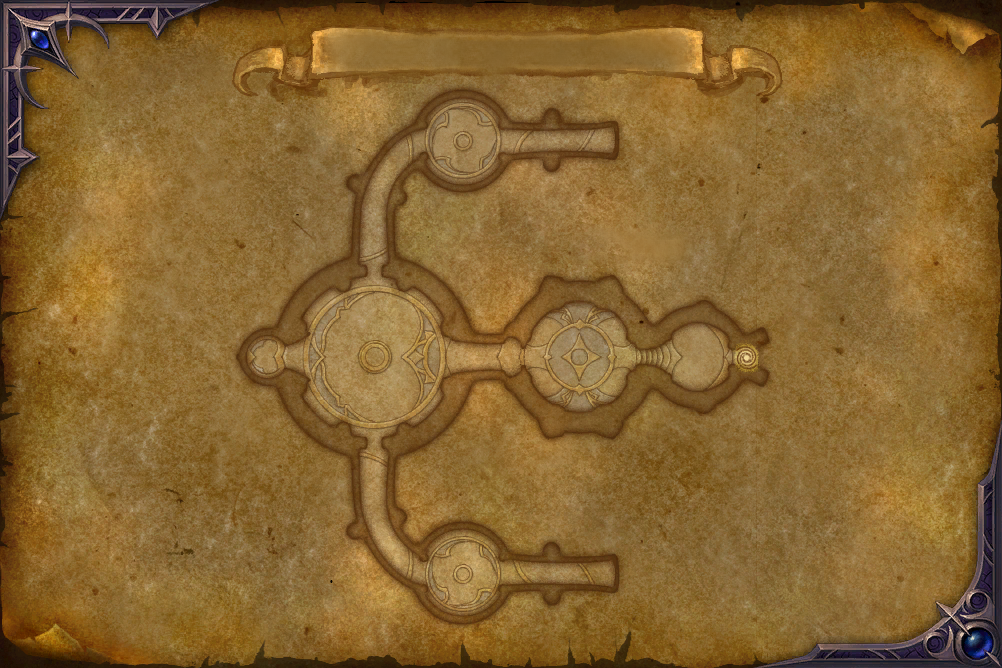
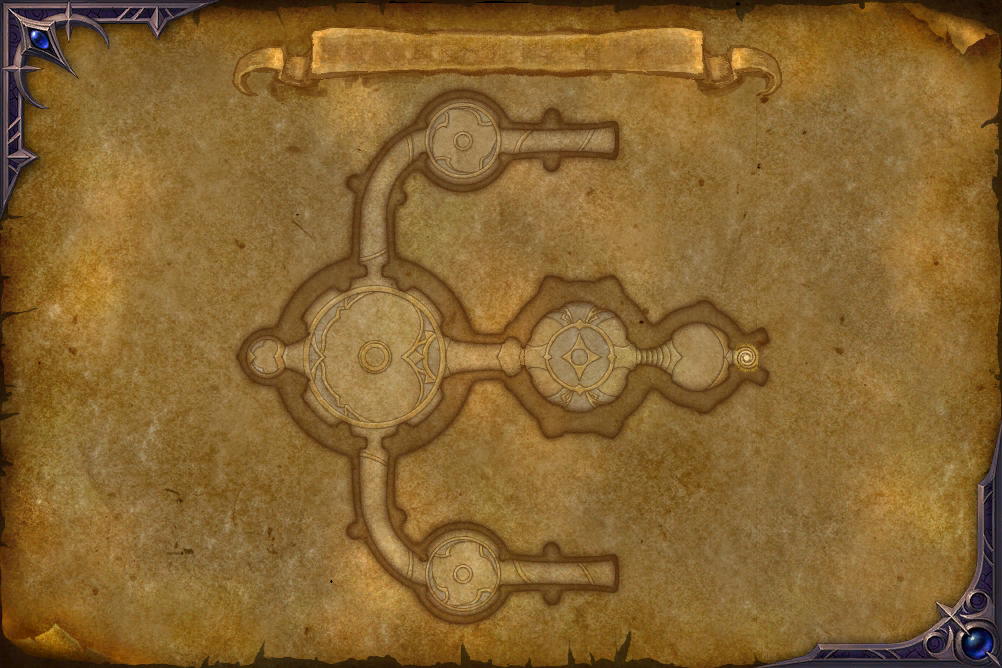
12.0.0.63967 update map

Changed region(s): [[0.3403, 0.0299, 0.6806, 0.1198]]

diff --git a/add_translation.py b/add_translation.py
@@ -2,12 +2,12 @@
 
 import json
 import os
-from PIL import Image, ImageDraw, ImageFont
+from PIL import Image, ImageDraw, ImageFont, ImageFilter
 
 FONT_PATH = "font/ARLishuU30-Medium.ttf"
 font_cache = {}
 
-def generate_text_image(text, output_path, font_size=48):
+def generate_text_image(text, output_path, font_size=48, is_title=False):
     canvas_size = (500, 100)
     image = Image.new('RGBA', canvas_size, (0, 0, 0, 0))
     draw = ImageDraw.Draw(image)
@@ -23,36 +23,77 @@ def generate_text_image(text, output_path, font_size=48):
     x = (canvas_size[0] - text_width) // 2
     y = (canvas_size[1] - text_height) // 2
 
+    padding = 20
     diff_unit = font_size / 80
-    glow_diffs = [-8, -6, -4, -2, 0, 2, 4, 6, 8]
-    text_diffs = [-1, 0, 1]
 
-    # text glow
-    offsets = []
-    for dx in glow_diffs:
-        for dy in glow_diffs:
-            if dx in text_diffs and dy in text_diffs:
-                continue
-            if dx ** 2 + dy ** 2 >= 10 ** 2:
-                continue
-            offsets.append((dx, dy))
+    if is_title:
+        shadow_color = (64, 32, 16, 255)
+        mask_color = (255, 255, 255, 255)
 
-    # sort by distance
-    offsets.sort(key = lambda offset: offset[0]**2 + offset[1]**2, reverse=True)
-    for dx, dy in offsets:
-        # dist = 2 -> alpha = 255
-        # dist = 10 -> alpha = 0
-        dist = (dx ** 2 + dy ** 2) ** 0.5
-        scale = max(0, 1 - ((dist - 2) / 8) ** 1.4)
-        alpha = int(255 * scale)
-        glow_color = (255, 215, 0, alpha)
-        draw.text((x + dx * diff_unit, y + dy * diff_unit), text, font=font, fill=glow_color)
+        # shadow with gaussian blur
+        shadow_size = (text_width + padding * 2, text_height + padding * 2)
+        shadow_img = Image.new('RGBA', shadow_size, (0, 0, 0, 0))
+        shadow_draw = ImageDraw.Draw(shadow_img)
+        shadow_draw.text((padding + diff_unit, padding + diff_unit), text, font=font, fill=shadow_color, stroke_width= 6 * diff_unit, stroke_fill = shadow_color)
+        blurred_shadow = shadow_img.filter(ImageFilter.GaussianBlur(radius = 3 * diff_unit))
+        image.paste(blurred_shadow, (x - padding, y - padding), blurred_shadow)
 
-    # slightly embolden the text
-    text_color = (102, 67, 20, 255)
-    for dx in text_diffs:
-        for dy in text_diffs:
-            draw.text((x + dx * diff_unit, y + dy * diff_unit), text, font=font, fill=text_color)
+        # main text (as mask)
+        text_mask = Image.new('RGBA', (text_width + 2 * padding, text_height + 2 * padding), (0, 0, 0, 0))
+        text_draw = ImageDraw.Draw(text_mask)
+        text_draw.text((padding, padding), text, font=font, fill=mask_color, stroke_width=diff_unit, stroke_fill=mask_color)
+
+        mask_bbox = text_mask.getbbox()
+        mask_width = mask_bbox[2] - mask_bbox[0]
+        mask_height = mask_bbox[3] - mask_bbox[1]
+        mask_left = mask_bbox[0]
+        mask_top = mask_bbox[1]
+
+        # gradient
+        # 0%: (240, 208, 16)
+        # 65%: (240, 152 ,16)
+        # 100%: (208, 144, 16)
+        gradient = Image.new('RGBA', (mask_width, mask_height), (0, 0, 0, 0))
+        grad_draw = ImageDraw.Draw(gradient)
+        for i in range(mask_height):
+            gradient_factor = i / mask_height
+            if gradient_factor <= 0.65:
+                # From 0% to 65%: (240, 208, 16) to (240, 152, 16)
+                factor = gradient_factor / 0.65
+                r = int(240)
+                g = int(208 - (208 - 152) * factor)
+                b = int(16)
+            else:
+                # From 65% to 100%: (240, 152, 16) to (208, 144, 16)
+                factor = (gradient_factor - 0.65) / 0.35
+                r = int(240 - (240 - 208) * factor)
+                g = int(152 - (152 - 144) * factor)
+                b = int(16)
+            grad_draw.line([(0, i), (mask_width, i)], fill=(r, g, b, 255))
+
+        # text with gradient
+        gradient_padded = Image.new('RGBA', (text_width + 2 * padding, text_height + 2 * padding), (0, 0, 0, 0))
+        gradient_padded.paste(gradient, (mask_left, mask_top))
+        final_text = Image.composite(gradient_padded, Image.new('RGBA', (text_width + 2 * padding, text_height + 2 * padding), (0, 0, 0, 0)), text_mask)
+        image.paste(final_text, (x - padding, y - padding), final_text)
+    else:
+        scale = (font_size - 16) / (96 - 16)
+        glow_color = (255, 224, 0, 224)
+        text_color = (102, 67, 20, 255)
+
+        # glow (heavy stroke + gaussian blur)
+        glow_size = (text_width + padding * 2, text_height + padding * 2)
+        glow_img = Image.new('RGBA', glow_size, (0, 0, 0, 0))
+        glow_draw = ImageDraw.Draw(glow_img)
+        glow_draw.text((padding, padding), text, font=font, fill=glow_color, stroke_width = (12 - 6 * scale) * diff_unit, stroke_fill=glow_color)
+        blurred = glow_img.filter(ImageFilter.GaussianBlur(radius = (4 - 2 * scale) * diff_unit))
+        image.paste(blurred, (x - padding, y - padding), blurred)
+
+        # main text
+        text_img = Image.new('RGBA', (text_width + 2 * padding, text_height + 2 * padding), (0, 0, 0, 0))
+        text_draw = ImageDraw.Draw(text_img)
+        text_draw.text((padding, padding), text, font=font, fill=text_color, stroke_width = diff_unit, stroke_fill=text_color)
+        image.paste(text_img, (x - padding, y - padding), text_img)
 
     bbox = image.getbbox()
     if bbox:
@@ -60,9 +101,9 @@ def generate_text_image(text, output_path, font_size=48):
 
     image.save(output_path, 'PNG')
 
-def composite_text_on_background(background_path, text, output_path, position, font_size=48):
+def composite_text_on_background(background_path, text, output_path, position, font_size=48, is_title=False):
     temp_text_path = 'temp_text.png'
-    generate_text_image(text, temp_text_path, font_size)
+    generate_text_image(text, temp_text_path, font_size, is_title)
 
     background = Image.open(background_path).convert('RGBA')
     text_image = Image.open(temp_text_path).convert('RGBA')
@@ -98,9 +139,10 @@ def process_localization_entries(basename, map_id, localization_info):
                     text = entry_info[lang]
                     position = entry_info['position']
                     font_size = entry_info.get('fontSize', 48)
+                    is_title = entry_info.get('title', False)  # Check if this is a title
 
                     temp_text_path = 'temp_text.png'
-                    generate_text_image(text, temp_text_path, font_size)
+                    generate_text_image(text, temp_text_path, font_size, is_title)
                     text_image = Image.open(temp_text_path).convert('RGBA')
                     text_width, text_height = text_image.size
                     x, y = position
